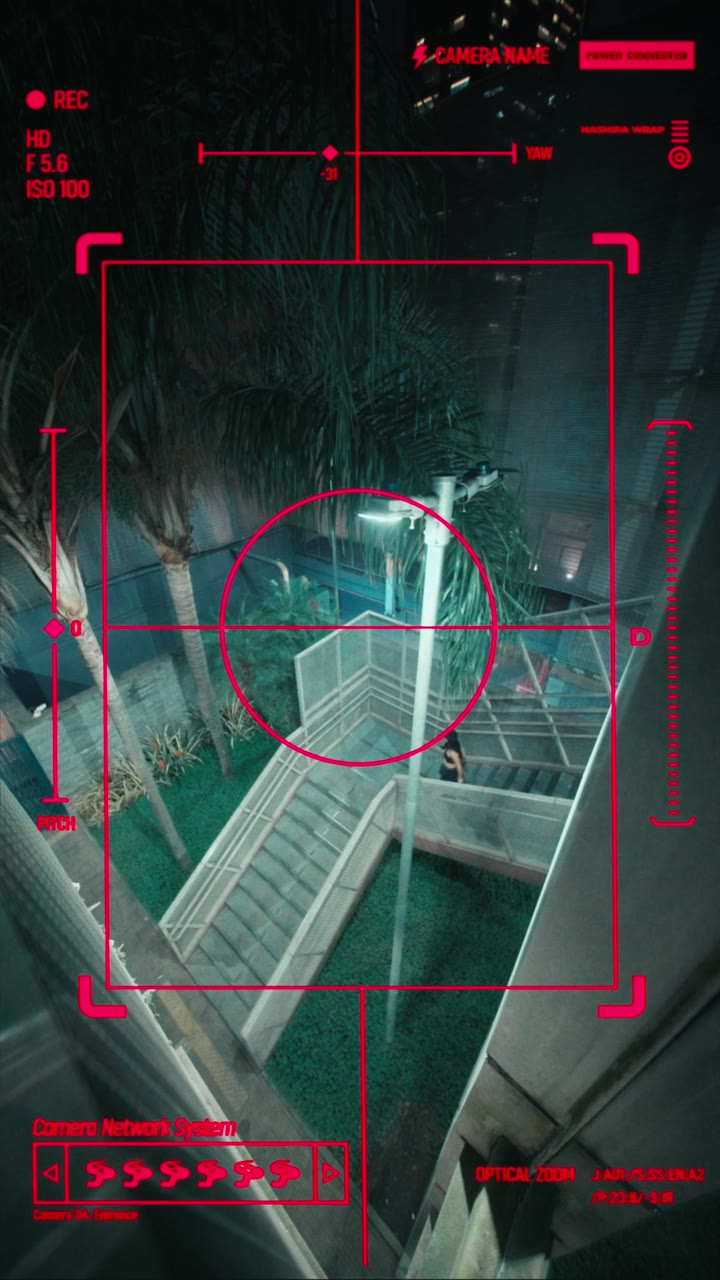
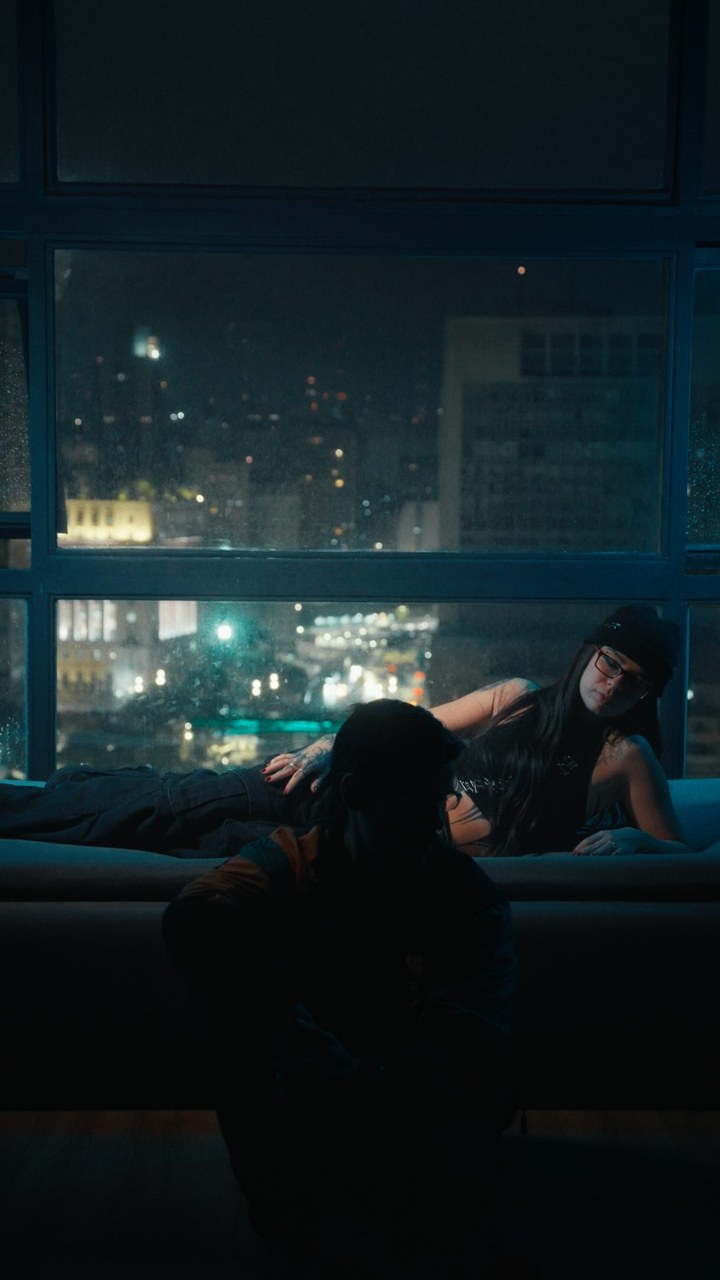
Capa da Cyberpunk: frame usado como capa no Instagram
Claude-Session: https://claude.ai/code/session_0134vRvdeBxE2DxXNcjBhZsm

diff --git a/index.html b/index.html
@@ -677,7 +677,7 @@ const CR=[
   {s:"f1-w-ford",pl:"Interlagos, SP",n:{pt:"F1 com a Ford",en:"F1 with Ford"},ro:{pt:"Fotografia da experiência",en:"Experience photography"},d:[]},
   {s:"festival-interlagos-reels-ford",ph:"festival-interlagos-ford",xv:"festival-interlagos-frames-ford",n:{pt:"Festival Interlagos",en:"Interlagos Festival"},pl:"Interlagos, SP",ro:{pt:"Reels, frames verticais e fotos",en:"Reels, vertical frames and photos"},d:[]}]},
  {b:"CD Projekt Red",lbl:{pt:"CD Projekt Red",en:"CD Projekt Red"},cases:[
-  {mp4:"cyberpunk.mp4",igc:["Deh39kJTf4J","DgI6B1_BTeu"],poster:"imagens/creator/cyberpunk-capa.jpg",vert:1,n:{pt:"Cyberpunk: Edgerunners · 2ª temporada",en:"Cyberpunk: Edgerunners · Season 2"},y:"2026",pl:"São Paulo, SP",ro:{pt:"Direção e produção da ação de divulgação",en:"Direction and production of the launch content"},team:"Henry Majolo (DF) · Sorriso (câmera) · Mat (assist.)",d:[{pt:"vídeo vertical de divulgação",en:"vertical launch video"},{pt:"reel de bastidores do processo criativo",en:"behind-the-scenes reel"}]}]}];
+  {mp4:"cyberpunk.mp4",igc:["Deh39kJTf4J","DgI6B1_BTeu"],poster:"imagens/creator/cyberpunk-capa.jpg?v=2",vert:1,n:{pt:"Cyberpunk: Edgerunners · 2ª temporada",en:"Cyberpunk: Edgerunners · Season 2"},y:"2026",pl:"São Paulo, SP",ro:{pt:"Direção e produção da ação de divulgação",en:"Direction and production of the launch content"},team:"Henry Majolo (DF) · Sorriso (câmera) · Mat (assist.)",d:[{pt:"vídeo vertical de divulgação",en:"vertical launch video"},{pt:"reel de bastidores do processo criativo",en:"behind-the-scenes reel"}]}]}];
 let crB=0,crC=0;
 const L=o=>o?(o[LANG]||o.pt):"";
 function crTot(){const c=CR[crB];const ws=c.match?W.filter(w=>c.match.test(w.slug)):[];
